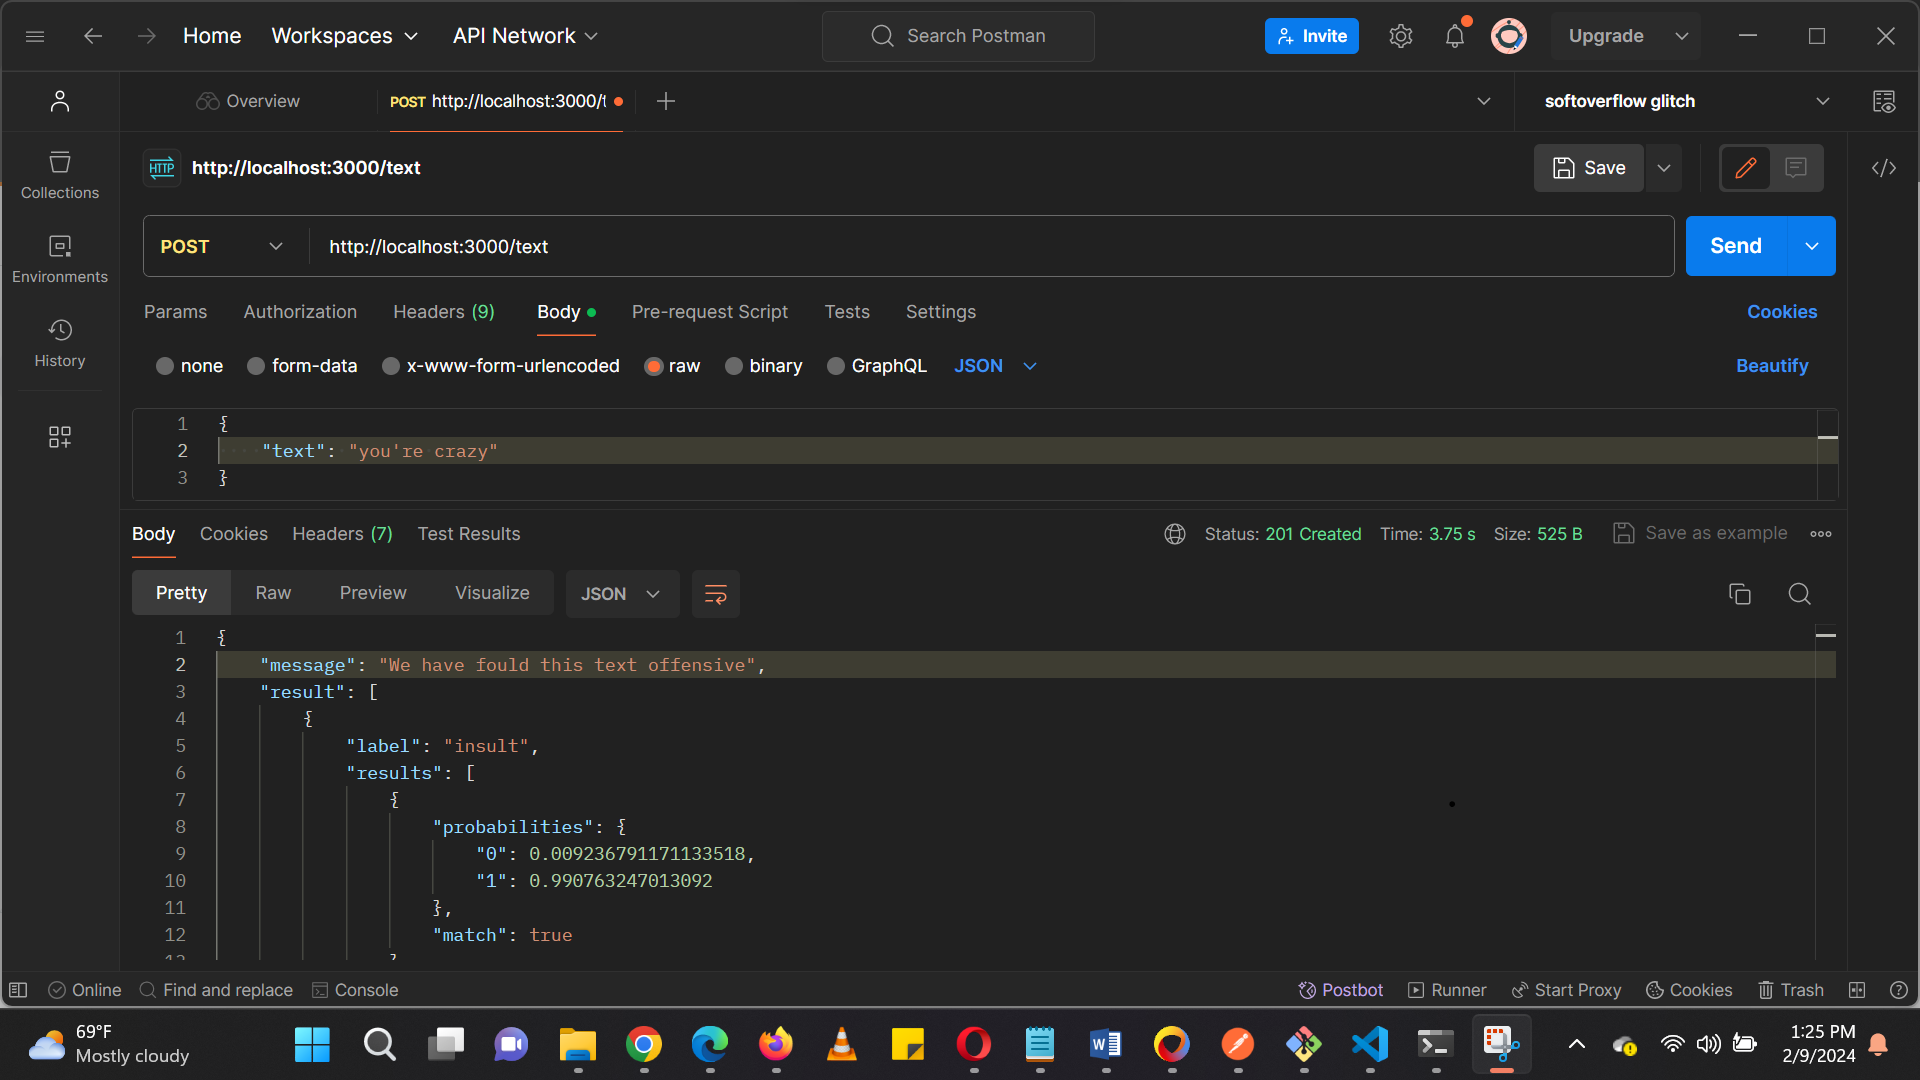
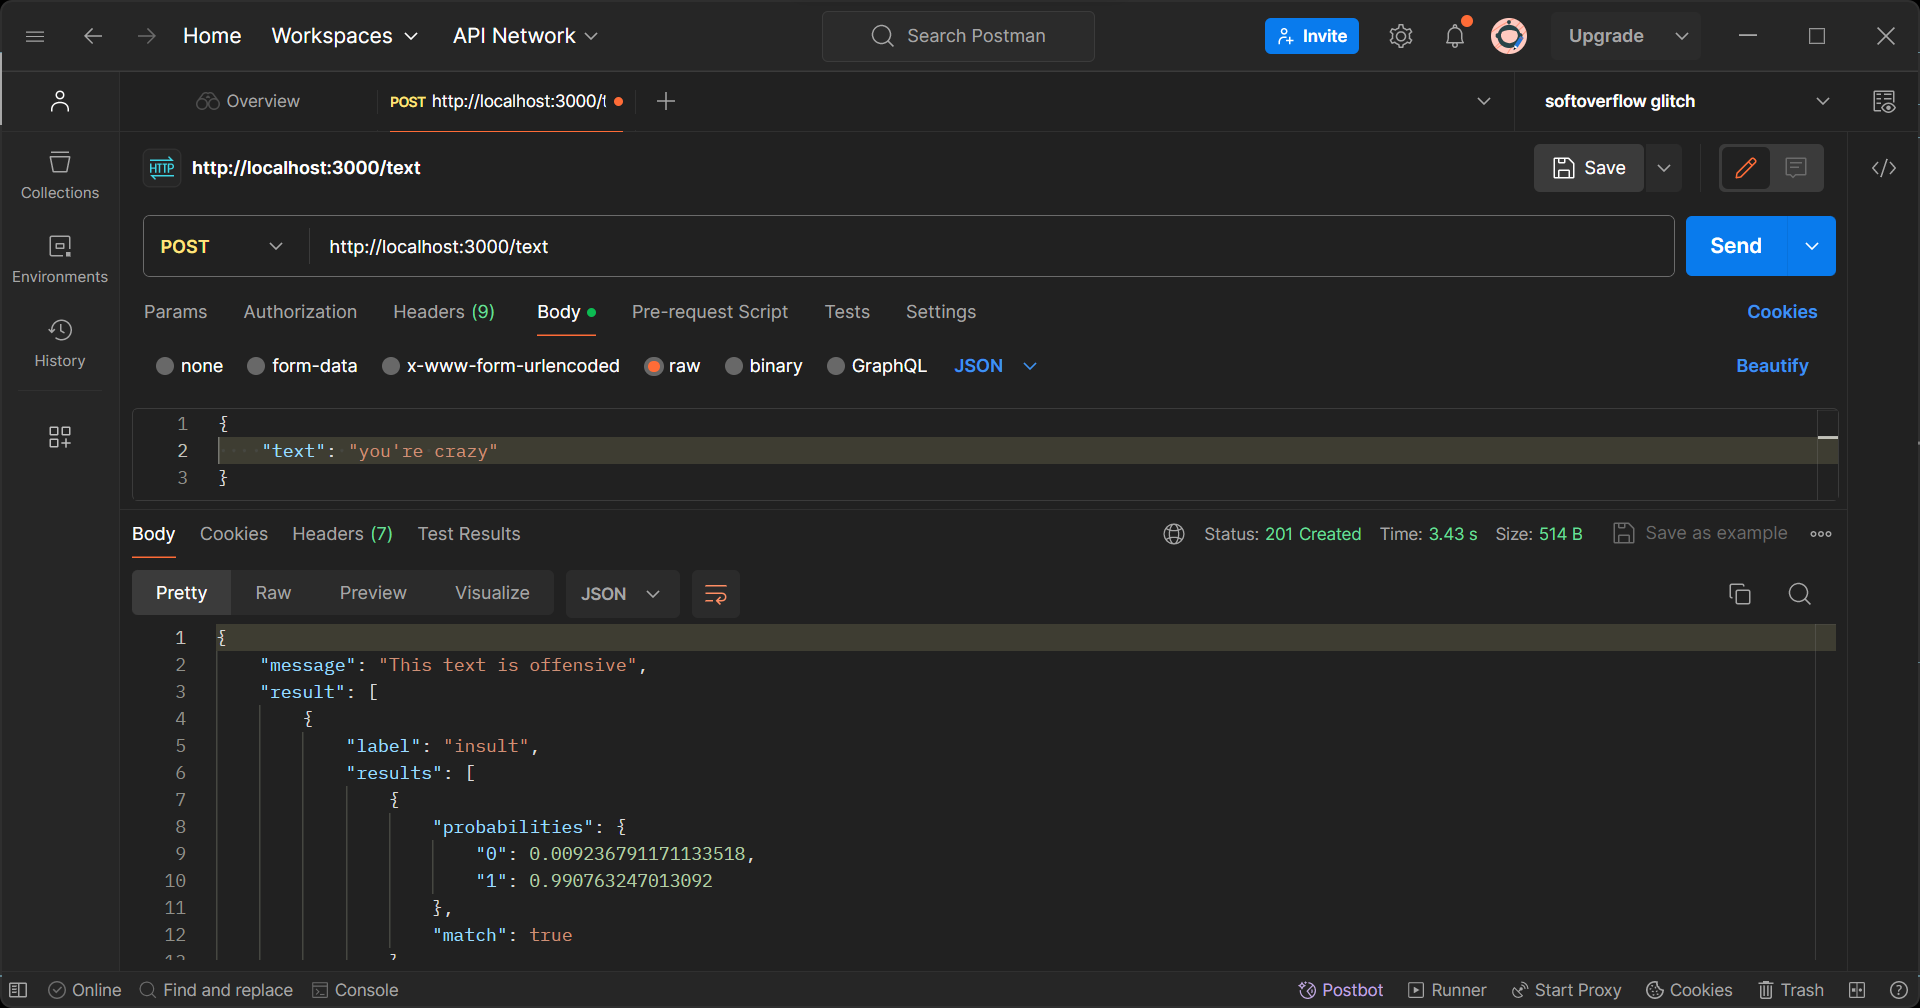
updated README

diff --git a/routes/index.js b/routes/index.js
@@ -34,7 +34,7 @@ router.post('/text', function (req, res, next) {
       
       //return a message about the predictions
       let message;
-      predictionArray.length > 0 ? message = "We have fould this text offensive" : message = "Good"
+      predictionArray.length > 0 ? message = "This text is offensive" : message = "Good"
       res.status(201).json({ 'message' : message, 'result' : predictionArray });
 
     });

diff --git a/README.md b/README.md
@@ -26,4 +26,6 @@ PS> $env:DEBUG='ai-tensorflow-node-toxicity-app:*'; npm start
 | ------------------------------------------------------------------------------------ | ---------------------------- |
 | POST &nbsp; &nbsp; &nbsp; http://localhost:3000/text                                 | Classify text                |
 
+![alt text](image-1.png)
+
 ![alt text](image.png)
